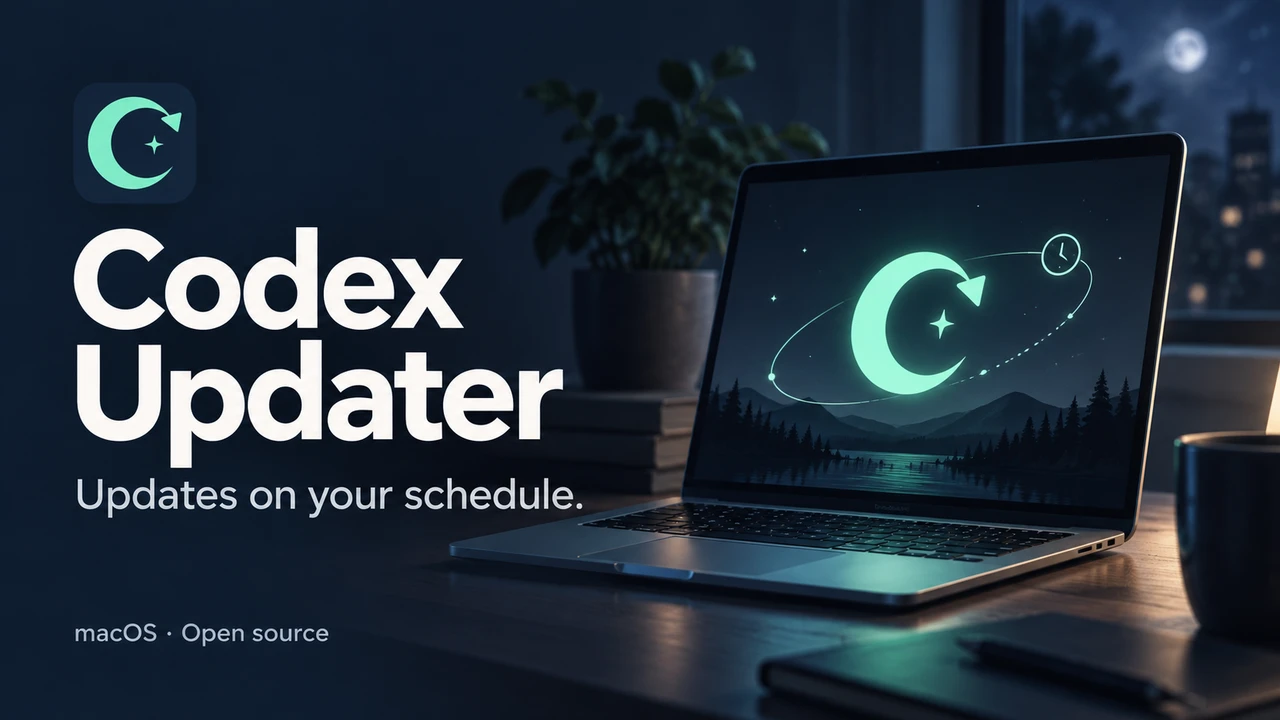
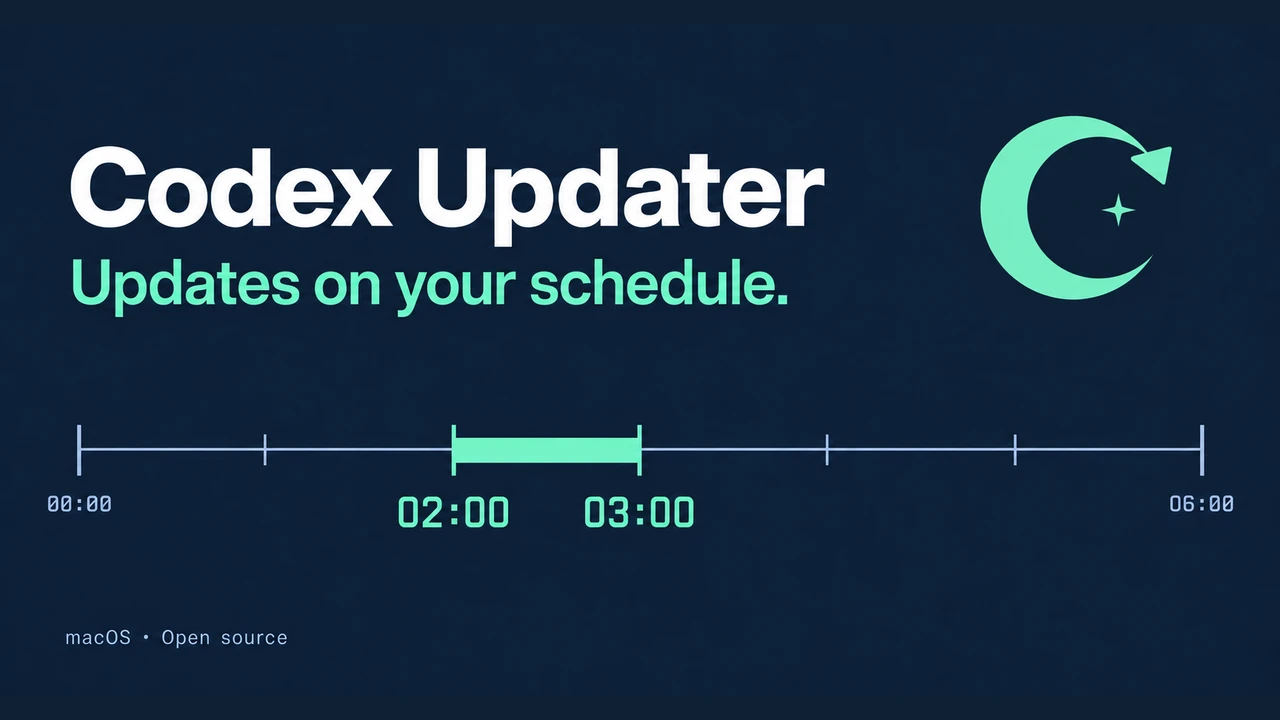
Use branded schedule artwork for Codex Updater

diff --git a/assets/promo/prompt.md b/assets/promo/prompt.md
@@ -1,18 +1,25 @@
 # Codex Updater promotional card
 
-Generated on September 20, 2026 with the built-in image generation tool, using `assets/AppIcon.png` as the brand reference. This is promotional artwork, not an app screenshot.
+Selected schedule design, updated September 20, 2026 with the built-in image generation tool. The mint crescent/update-arrow logo is based on `assets/AppIcon.png`. This is promotional artwork, not an app screenshot.
 
-- `promo-master.png`: original generated image.
-- `social-card.png`: 1200 × 630 centered crop for social sharing.
-- `landing-card.webp`: 1280 × 720 export for the Experimental Software project card.
+- `promo-master.png`: original final artwork (1731 × 909).
+- `social-card.png`: 1200 × 630 export for social sharing and the README.
+- `landing-card.webp`: 1280 × 720 export, with navy padding above and below to preserve every label in the website's 16:9 card.
 
 ## Generation prompt
 
-Use case: ads-marketing.
-Asset type: polished 16:9 promotional/social share card for the open-source macOS utility Codex Updater, usable as a small portfolio thumbnail. Produce a finished high-resolution landscape image, ideally 2048 x 1152.
-Input image: the provided existing mint moon/update-arrow app icon is a brand reference and supporting insert. Transform this logo-only visual into a complete promotional card; retain the icon's recognizable crescent-arrow design as a small brand mark, not the main subject.
-Product fact: Codex Updater schedules overnight updates to the Codex desktop app and, by default, waits for idle time/no active tasks.
-Art direction: confident, restrained editorial software campaign. Deep midnight navy (#101F35) background, crisp warm-white typography, luminous mint (#83E9C1) accents. A little finely controlled grain and atmospheric depth, not a noisy space poster.
-Composition: generous negative space and a strong asymmetrical layout. Left half has very large beautifully typeset sans-serif title on two lines, "Codex" then "Updater". Beneath it a clearly readable lighter-weight supporting line, "Updates on your schedule." Right half has a beautifully crafted stylized 3D illustration of a slim silver laptop at night: a softly glowing mint crescent/update arc hovers above a dark, quiet screen, with a thin orbital clock-like path implying time and a few small stars. The laptop is an abstract illustration, not a fabricated screenshot or replica of a real application. The existing icon may appear small near the title. The illustration has tactile materials and elegant soft shadows, crisp geometry, no cartoon character. Fill the canvas purposefully and balance text and image.
-Text (verbatim, only these strings): "Codex Updater", "Updates on your schedule.", "macOS · Open source". The product title is largest, subtitle second. Small platform label near the lower left, still legible. All text accurately spelled.
-Constraints: full-bleed landscape rectangle, no outer frame, no rounded card border, no website mockup, no fake buttons, no busy dashboard, no body paragraphs, no URL, no watermark, no OpenAI logo, no gradients behind the text that reduce contrast. Avoid generic blue-purple AI blobs and excessive neon. Keep all important content safely at least 8% from each edge so a centered 1200x630 social crop loses nothing. Must be readable and compelling at 320 pixels wide.
+Use case: ads-marketing. Create one FINISHED social-sharing graphic for Codex Updater, an open-source macOS utility that applies Codex updates on a schedule. Landscape 1.91:1, ideally 2400x1260. This is a professionally designed FLAT GRAPHIC, not an illustration of an object or a screen. The user rejected the previous image for looking AI-generated. Aim for an art-directed, exact, restrained piece of graphic design: impeccable type, real negative space, purposeful composition. Completely flat opaque color fills, razor-sharp edges, clean alignments. No photography, no laptop, no desk, no scenery, no plants, no cosmic imagery, no floating 3D objects, no render, no glow, no blur, no faux film grain, no gradients, no generic AI sparkle motifs, no watermark. No invented app screenshot. Nothing should resemble a product mockup. All important content should stay inside an 8% safe margin, except explicitly described decorative crops. No outline around the entire image. Product name and headline must remain clearly readable as a 320px-wide website thumbnail.
+Use the exact text specified below and no other text. Spell everything correctly, with careful spacing and professional kerning.
+Direction: a precise, quietly technical graphic about scheduling. Flat deep navy #101F35 canvas. At top left, large warm-white "Codex Updater" in a clean medium-weight neo-grotesk, with "Updates on your schedule." below in mint #83E9C1. The lower half contains a clean abstract horizontal timeline from "00:00" on the left to "06:00" on the right, with evenly spaced small ticks. Highlight the single interval "02:00" to "03:00" using one strong solid mint rectangular bar. The two highlighted times are oversized monospaced numerals, forming the central visual statement; the other end times are much smaller and quieter. Simple editorial information design, not a fake settings panel: no window chrome, no buttons, no switches, no app screenshot, no container cards. A very small "macOS · Open source" footer aligned to the headline. The timeline should be mathematically tidy: 00:00, 02:00, 03:00, 06:00 in left-to-right order, the 02:00–03:00 segment proportionally one-sixth of the total line. Exact text: "Codex Updater", "Updates on your schedule.", "00:00", "02:00", "03:00", "06:00", "macOS · Open source".
+
+## Timeline correction
+
+Edit only the timeline in this Codex Updater social share graphic. Keep the exact overall dimensions, all typography above the timeline, background, colors and footer unchanged. Correct the timeline so it is mathematically proportional: the full line from 00:00 at its left end to 06:00 at its right end represents six hours. Put exactly seven equally spaced tick marks at 0%, 16.6667%, 33.3333%, 50%, 66.6667%, 83.3333%, 100% along the line. Label only 00:00 at 0%, 02:00 at 33.3333%, 03:00 at 50%, 06:00 at 100%. Retain the large mint numerals for 02:00 and 03:00, each centered directly beneath its tick. Fill only the segment from 33.3333% to 50% in mint. That mint segment must be exactly one sixth the width of the full line. The tick marks at 16.6667%, 66.6667%, 83.3333% are small and unlabeled. Preserve the restrained flat navy and mint editorial design. No other text, no other changes.
+
+## Logo edit
+
+Use case: compositing.
+Image 1 is the edit target: the selected Codex Updater navy schedule social card. Image 2 is the existing official Codex Updater app logo to insert.
+Make one targeted change to image 1: add the existing mint crescent/update-arrow-and-star logo from image 2 in the unused upper-right area. The logo should be a clear, modest brand anchor around 240 pixels square on this 1731 x 909 canvas, centered approximately at x=1450 y=270. Preserve the exact recognizable crescent outline, arrowhead and four-point star from image 2. Use the mint artwork with its dark navy background blending naturally into the card; no extra frame, no glow, no 3D effect, no shadow. Keep a generous right margin. Do not cover or move the title, subtitle, timeline, time labels, or footer.
+Keep every other part of image 1 unchanged: exact aspect ratio, navy background, typography, text, positions, sizes, spacing, colors, and timeline proportions. The 02:00–03:00 mint segment remains exactly one sixth the full 00:00–06:00 line. This is restrained flat editorial graphic design.
+Exact existing text must remain: "Codex Updater", "Updates on your schedule.", "00:00", "02:00", "03:00", "06:00", "macOS · Open source". No additional text or objects.

diff --git a/README.md b/README.md
@@ -1,6 +1,6 @@
 # Codex Updater
 
-<img src="assets/promo/social-card.png" alt="Codex Updater — Updates on your schedule. A nighttime laptop with the mint moon and update arrow." width="1200">
+<img src="assets/promo/social-card.png" alt="Codex Updater — Updates on your schedule. The mint crescent and update-arrow logo above a timeline highlighting 2–3 a.m." width="1200">
 
 Keep Codex up to date overnight, even when you leave it open for days.
 
